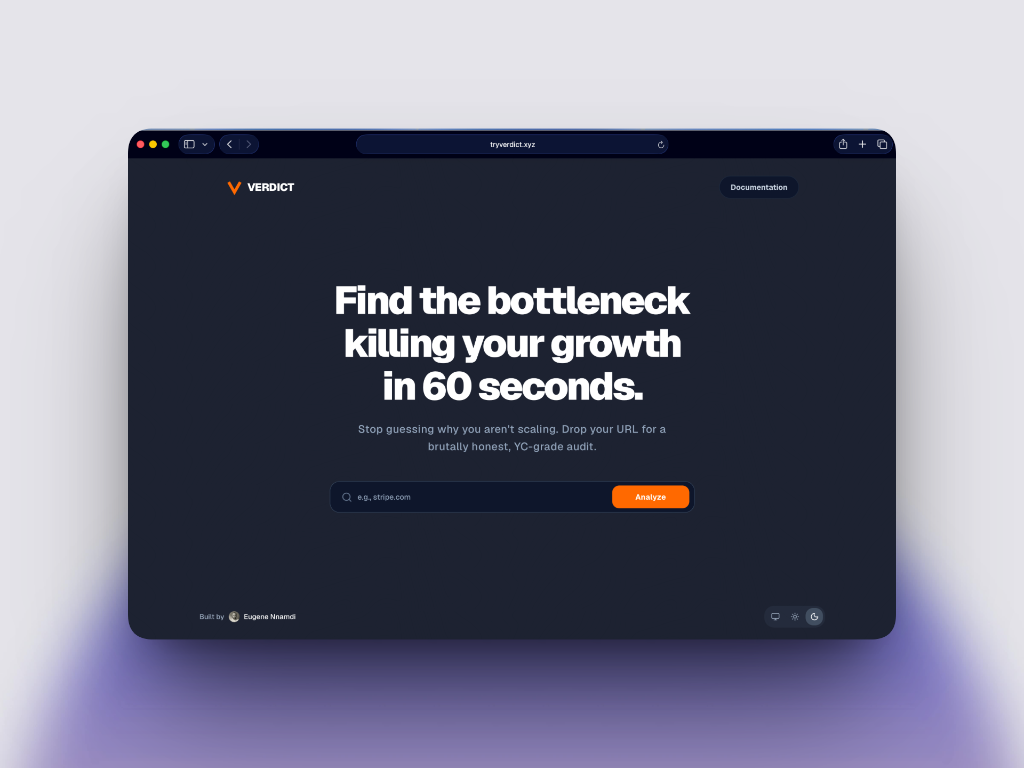
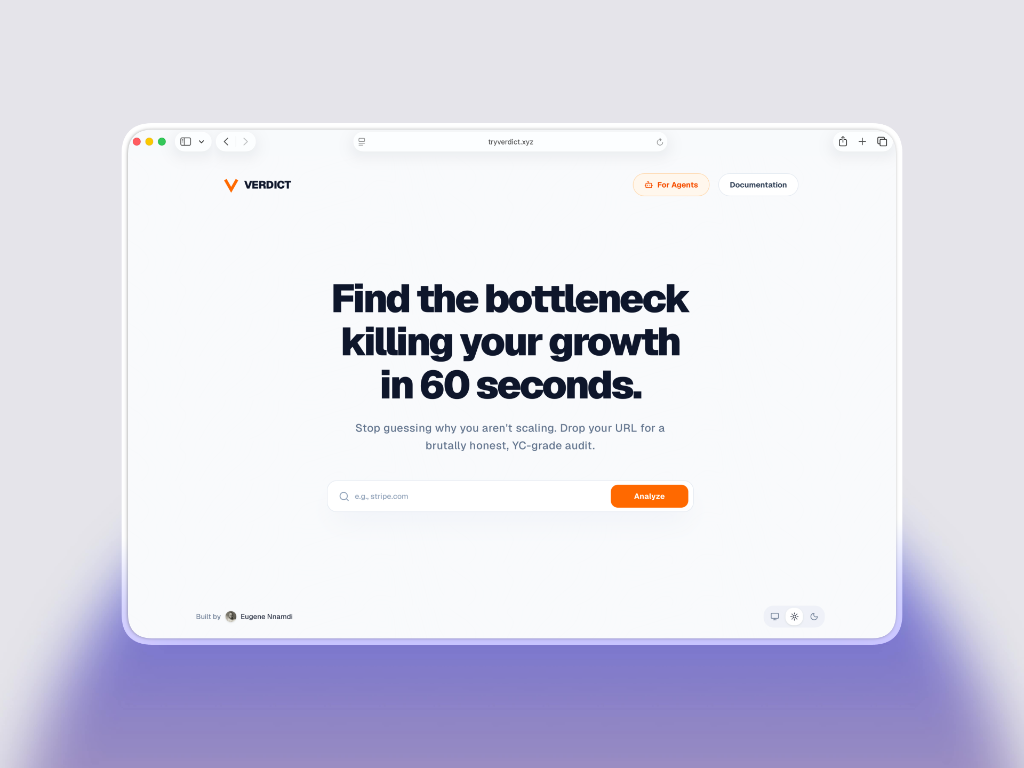
feat: Update Verdict preview image and set status to Live

diff --git a/index.html b/index.html
@@ -88,8 +88,8 @@
               </a>
               <div class="project-content">
                 <div class="project-meta">
-                  <h3>Verdict</h3>
-                  <span class="project-tag progress">In Progress</span>
+                  <h3>VERDICT</h3>
+                  <span class="project-tag live">Live</span>
                 </div>
                 <p>A brutally honest growth auditor for startups, delivering YC-grade consulting in 60 seconds.</p>
                 <div class="project-links">
